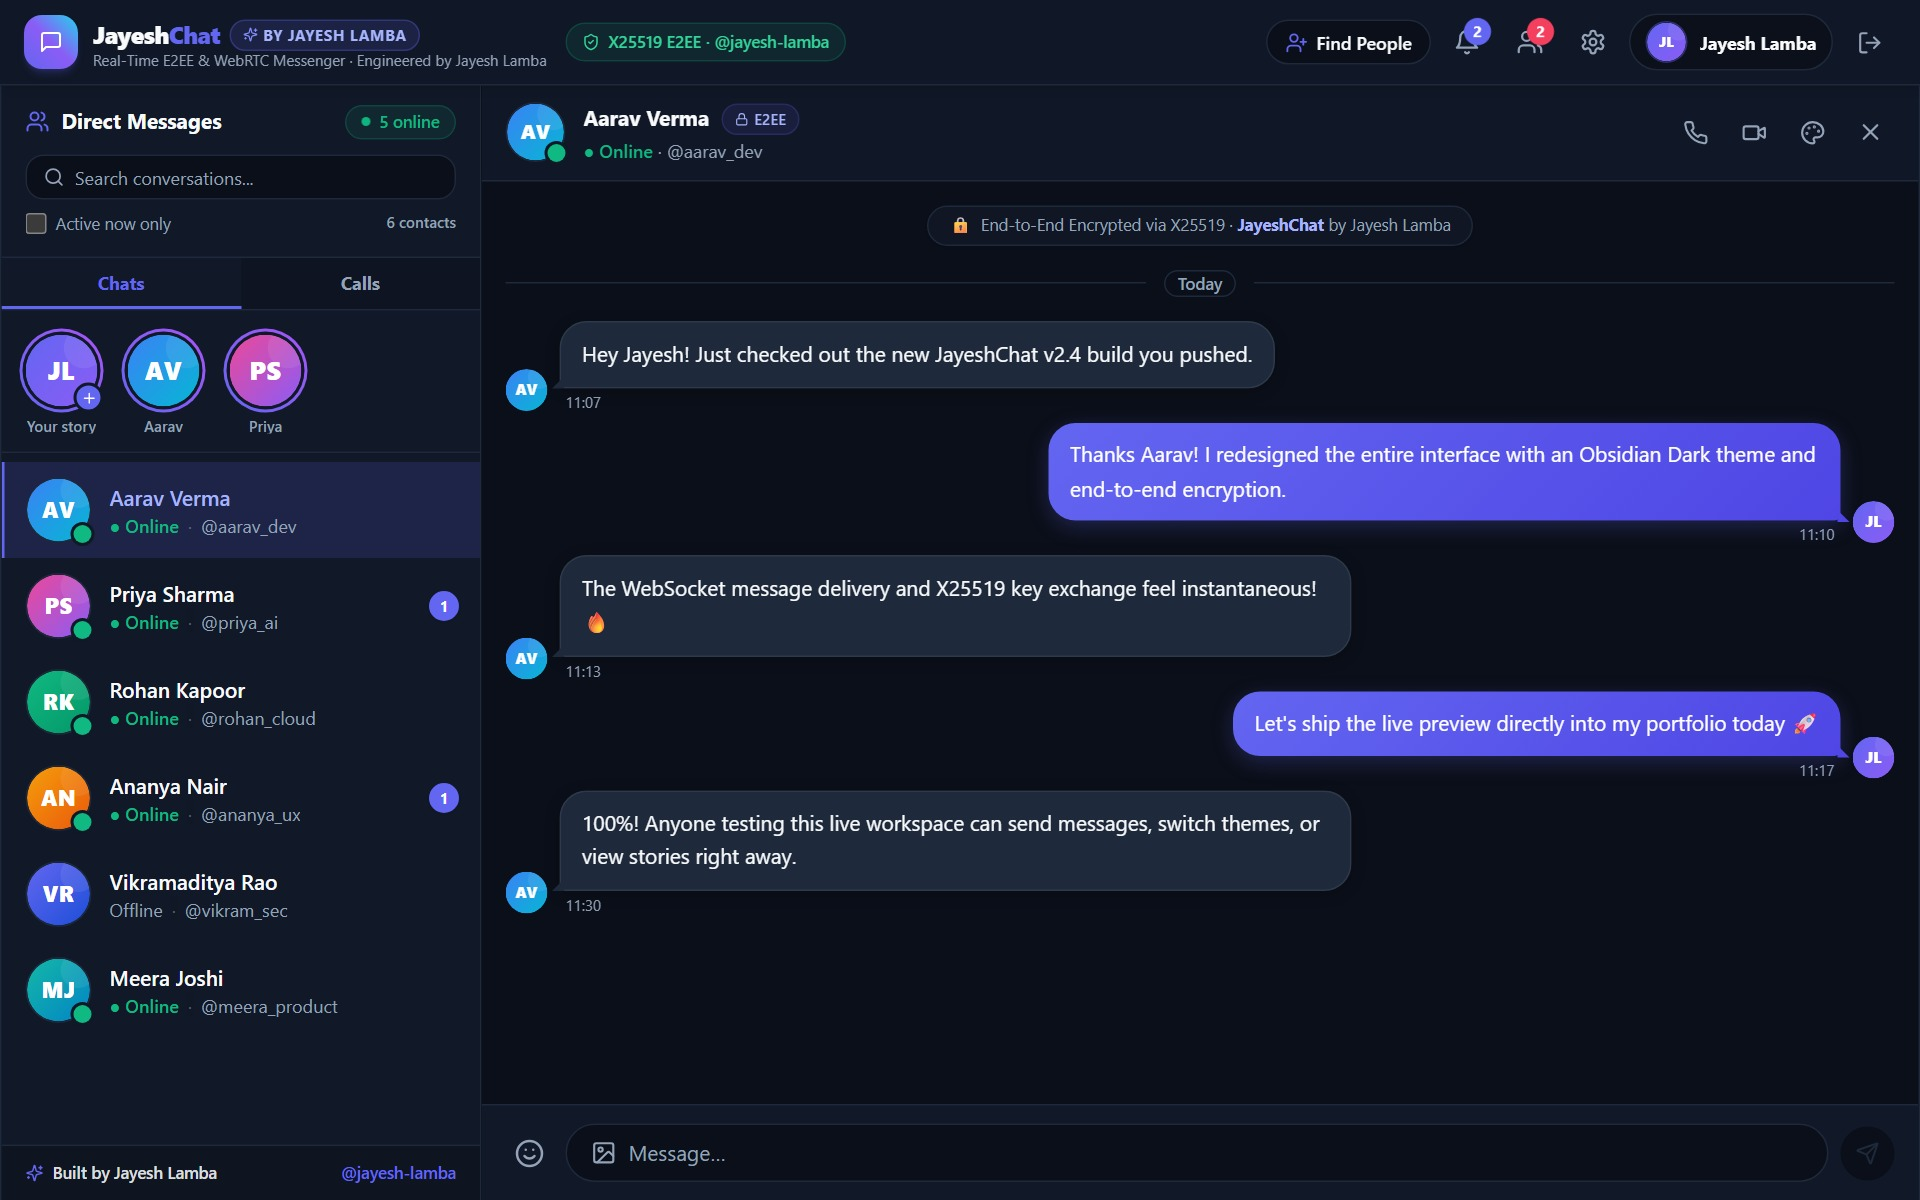
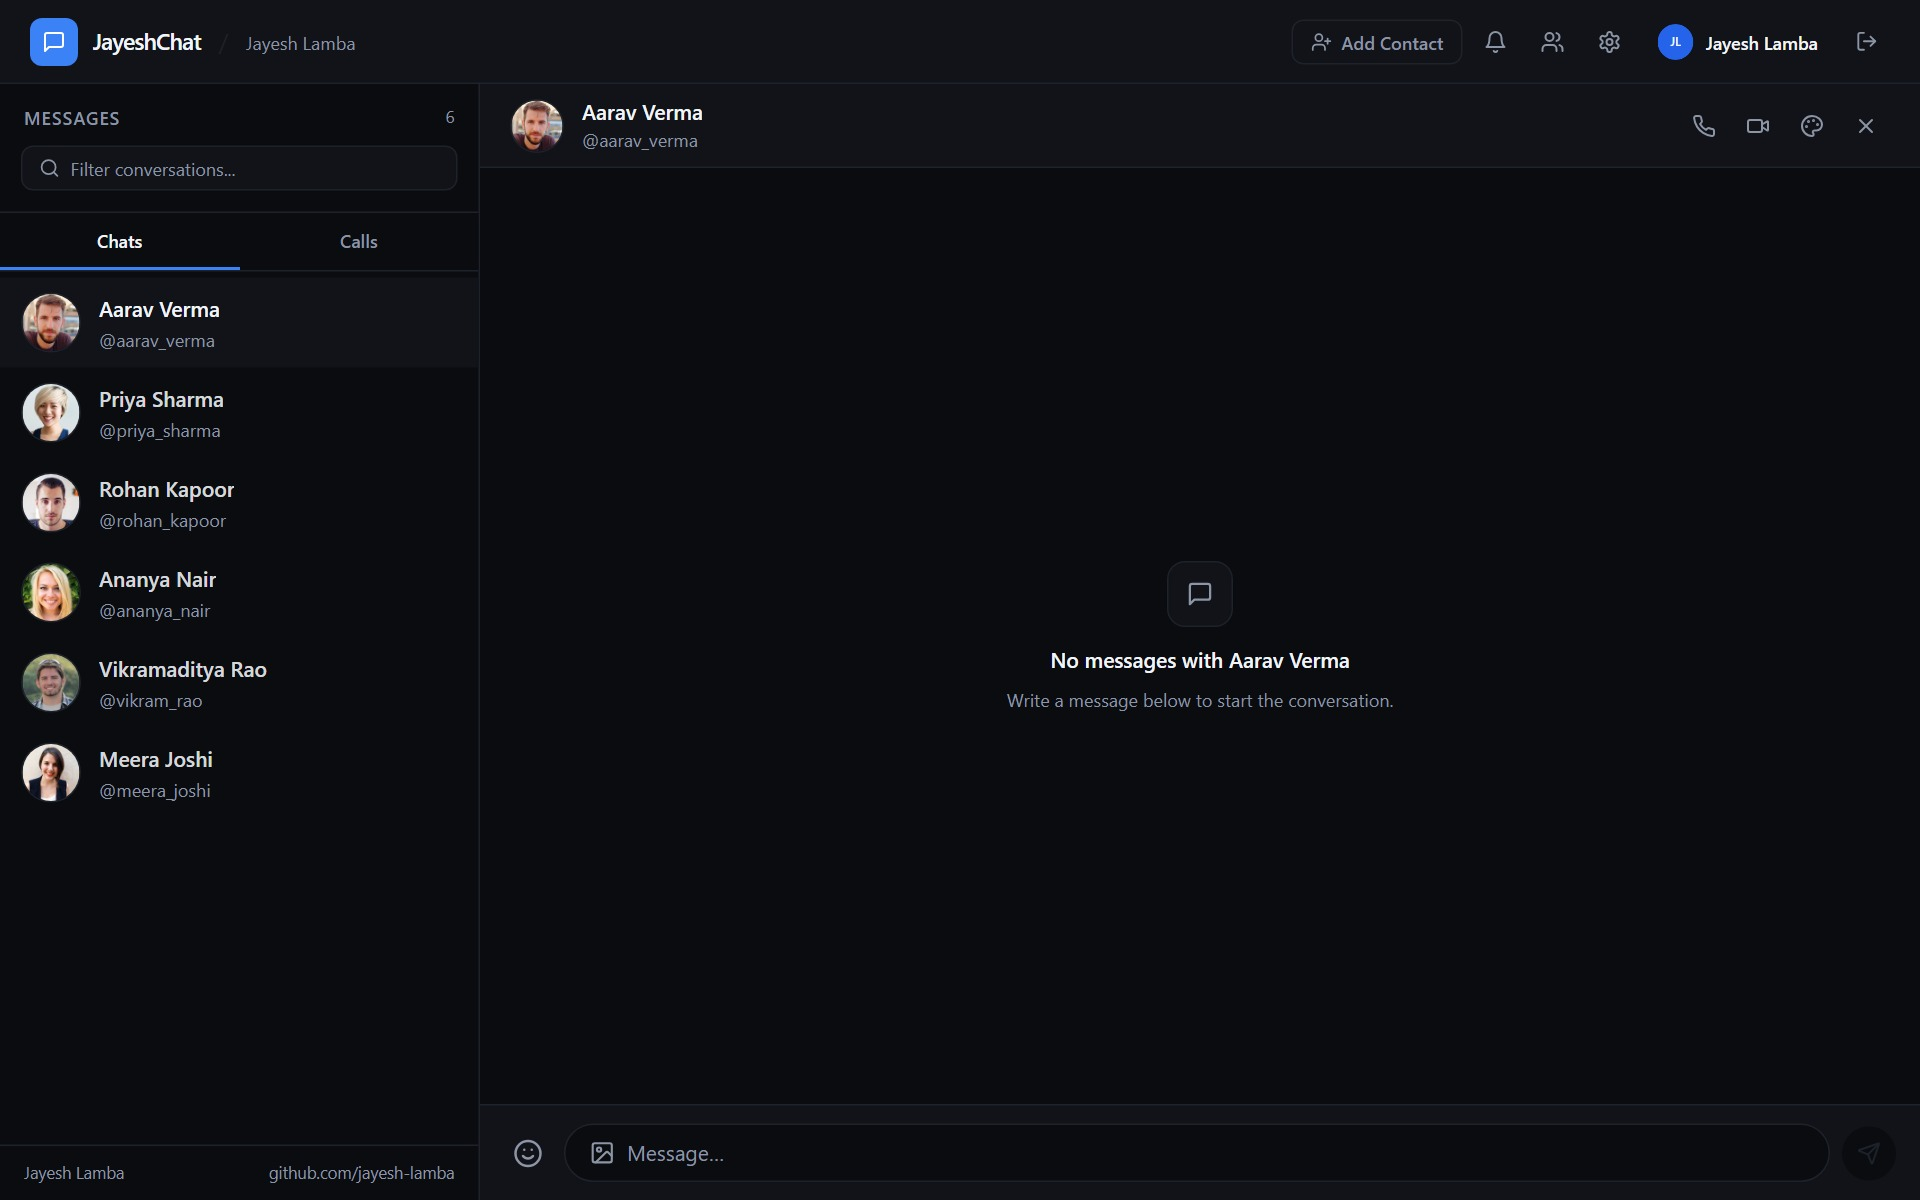
chore(preview): update JayeshChat screenshot with full-bleed minimalist dark UI

diff --git a/index.html b/index.html
@@ -240,7 +240,7 @@
               <a href="https://peekafuture.pages.dev/" target="_blank" rel="noopener noreferrer" class="card-link">Open Live Demo &rarr;</a>
             </article>
 
-            <article class="info-card" data-project="chat" data-preview-src="assets/images/preview-chat.jpg?v=20261115e" data-preview-url="jayesh-lamba.github.io/Real-Time-Chat-App" data-preview-label="Open Live Demo">
+            <article class="info-card" data-project="chat" data-preview-src="assets/images/preview-chat.jpg?v=20261115f" data-preview-url="jayesh-lamba.github.io/Real-Time-Chat-App" data-preview-label="Open Live Demo">
               <h3><button type="button" class="project-select-btn" aria-pressed="false" aria-controls="project-preview">Real-Time Chat Application</button></h3>
               <p class="info-meta">React · Node · Socket.IO · WebRTC · E2EE</p>
               <p>X25519 end-to-end encrypted messenger with sub-20ms Socket.IO sync, WebRTC calling &amp; 24h ephemeral stories.</p>
